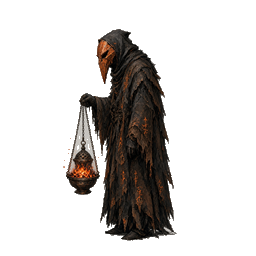
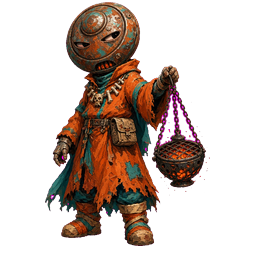
Gravemark: five class looks, fifteen monsters and twelve bosses in the new style
Installed from the post-apocalypse delivery via tools/fit-figure.py (keys the
magenta, fits each portrait onto its canvas, mirrors so heroes face right and
monsters face left in the file). Renderer flips a painting only when its
manifest facing differs from the actor's, draws class looks untinted, and the
roster portrait crops the class look. Installer's filler check now derives
the frame count from the image width like the renderer does.

Claude-Session: https://claude.ai/code/session_01L4YgmXtn1U1rMqPTfw2Rbr

diff --git a/gravemark/src/32-ui-battle.js b/gravemark/src/32-ui-battle.js
@@ -392,7 +392,9 @@ function drawSpriteMode(ctx, p, a, size, scale, now) {
   ctx.rotate((sheet && a.anim.clip === "death" ? 0 : m.lean * 0.6) * Math.PI / 180);
   ctx.scale(m.sx, m.sy);
   var x = -size / 2, y = -size * 0.96;
-  if (a.kind === "hero") {
+  if (a.kind === "hero" && key.indexOf("actor/look-") !== 0) {
+    /* the shared hero painting is tinted to the class; a class's own look is
+       already the class and is drawn as painted */
     GM.drawTinted(ctx, key, a.hue, frame, x, y, size, size, { label: false, strength: 0.26 });
   } else {
     GM.drawSprite(ctx, key, frame, x, y, size, size, { label: true });
@@ -415,9 +417,12 @@ function drawSpriteMode(ctx, p, a, size, scale, now) {
 
 function drawActor(ctx, p, a, fx, fy, size, now) {
   var scale = size / 256;
-  var left = a.facing === "left";
+  /* Paintings are stored facing the way their manifest entry says (heroes
+     right, monsters left); the rig is authored facing right. Flip only when
+     what is drawn faces the other way from where the actor looks. */
   var rigMode = GM.RIG_DEBUG || GM.partsReady(a.partsId, a.anim.rig.id);
-
+  var artFacing = rigMode ? "right" : ((GM.ART_BY_KEY[a.spriteKey] || {}).facing || "right");
+  var left = a.facing !== artFacing;
   ctx.save();
   ctx.translate(fx, fy);
   if (left) ctx.scale(-1, 1);

diff --git a/gravemark/src/33-ui-roster.js b/gravemark/src/33-ui-roster.js
@@ -24,9 +24,12 @@ function portraitInto(canvas, hero) {
   var look = GM.heroLookKey(hero);
   var key = (look && GM.artReady(look)) ? look
           : GM.artReady("actor/hero-idle") ? "actor/hero-idle" : null;
-  if (key) {
-    /* Crop the head and shoulders out of the full figure, tinted to the class
-       so a roster of identical sprites is still readable at a glance. */
+  if (key === look) {
+    /* The class's own painting: head and shoulders, untinted. */
+    GM.drawSprite(ctx, key, 0, -w * 0.4, -h * 0.02, w * 1.8, h * 1.8, { label: false });
+  } else if (key) {
+    /* Crop the head and shoulders out of the shared figure, tinted to the
+       class so a roster of identical sprites is still readable at a glance. */
     GM.drawTinted(ctx, key, cls.hue, 0, -w * 0.32, -h * 0.12, w * 1.64, h * 1.64,
                   { label: false, strength: 0.26 });
   } else {

diff --git a/gravemark/src/00-util.js b/gravemark/src/00-util.js
@@ -5,7 +5,7 @@
 
 var GM = window.GM || (window.GM = {});
 
-GM.BUILD = "b009-whole";
+GM.BUILD = "b010-looks";
 GM.TITLE = "Gravemark";
 
 /* ---------- RNG ---------------------------------------------------------

diff --git a/gravemark/tools/fit-figure.py b/gravemark/tools/fit-figure.py
@@ -1,0 +1,74 @@
+#!/usr/bin/env python3
+"""Fit delivered character paintings onto their manifest canvases.
+
+A generator paints a figure at whatever aspect it likes (784x1168 portraits,
+this delivery). The game wants a fixed canvas per key: 256x256 for actors and
+monsters, 384x320 for bosses, feet resting near the bottom. This keys out the
+magenta, crops to the figure, scales it to fit the canvas with its feet at
+`--feet` of the height, and mirrors any file listed in --mirror so that every
+hero faces RIGHT and every monster faces LEFT in the file itself.
+
+    python3 tools/fit-figure.py <delivery-dir> --out /tmp/stage --mirror chill,vigilant
+    python3 tools/art-install.py /tmp/stage
+
+Files are mapped by name: look-<class>.png -> actor/look-<class>,
+<mon>-idle.png -> mon/<mon>-idle, b_<boss>-idle.png -> boss/b_<boss>-idle.
+"""
+import os, sys, json, argparse, subprocess, importlib.util
+from PIL import Image
+
+HERE = os.path.dirname(os.path.abspath(__file__))
+spec = importlib.util.spec_from_file_location("ai", os.path.join(HERE, "art-install.py"))
+ai = importlib.util.module_from_spec(spec); spec.loader.exec_module(ai)
+
+def manifest():
+    out = subprocess.run(["node", os.path.join(HERE, "art-manifest.js")], capture_output=True, text=True, check=True)
+    return {s["key"]: s for s in json.loads(out.stdout)}
+
+def key_for(name):
+    base = os.path.splitext(os.path.basename(name))[0]
+    if base.startswith("look-"): return "actor/" + base
+    if base.startswith("b_"): return "boss/" + base
+    return "mon/" + base
+
+def fit(img, w, h, feet):
+    img = img.convert("RGBA")
+    img, _ = ai.strip_matte(img)
+    bb = img.getchannel("A").getbbox()
+    if bb: img = img.crop(bb)
+    avail_h = h * feet - 2
+    avail_w = w - 4
+    s = min(avail_w / img.size[0], avail_h / img.size[1])
+    nw, nh = max(1, round(img.size[0] * s)), max(1, round(img.size[1] * s))
+    img = img.resize((nw, nh), Image.LANCZOS)
+    out = Image.new("RGBA", (w, h), (0, 0, 0, 0))
+    out.paste(img, ((w - nw) // 2, round(h * feet) - nh), img)
+    return out
+
+def main():
+    ap = argparse.ArgumentParser()
+    ap.add_argument("src")
+    ap.add_argument("--out", required=True)
+    ap.add_argument("--feet", type=float, default=0.96)
+    ap.add_argument("--mirror", default="", help="comma list of basenames (without -idle/.png) to flip horizontally")
+    a = ap.parse_args()
+    specs = manifest()
+    mirror = set(x.strip() for x in a.mirror.split(",") if x.strip())
+    n = 0
+    for f in sorted(os.listdir(a.src)):
+        if not f.lower().endswith(".png"): continue
+        key = key_for(f)
+        sp = specs.get(key)
+        if not sp: print("  no manifest key for", f, "->", key); continue
+        img = Image.open(os.path.join(a.src, f))
+        base = os.path.splitext(f)[0].replace("-idle", "")
+        if base in mirror: img = img.transpose(Image.FLIP_LEFT_RIGHT)
+        out = fit(img, sp["w"], sp["h"], a.feet)
+        dst = os.path.join(a.out, key + ".png")
+        os.makedirs(os.path.dirname(dst), exist_ok=True)
+        out.save(dst, optimize=True); n += 1
+        print(f"  {key:28s} {sp['w']}x{sp['h']}" + ("  mirrored" if base in mirror else ""))
+    print(f"fitted {n}; install with: python3 tools/art-install.py {a.out}")
+
+if __name__ == "__main__":
+    main()

diff --git a/gravemark/tools/art-install.py b/gravemark/tools/art-install.py
@@ -29,7 +29,9 @@ def manifest(path=None):
 
 def is_painted(img, spec):
     w, h = img.size
-    frames = spec.get("frames") or 1
+    # The renderer derives the frame count from the image's own width, so a
+    # single still delivered for a sheet key is one frame, not a sixth of one.
+    frames = max(1, round(w / max(1, spec.get("w") or w)))
     fw = max(1, w // frames)
     frame = img.crop((0, 0, fw, h)).convert("RGBA")
     bg = Image.new("RGBA", frame.size, (128, 128, 128, 255))

diff --git a/gravemark/README.md b/gravemark/README.md
@@ -177,11 +177,21 @@ out of date. With items gone there are no item icons, rune glyphs, rarity
 frames or paper-doll layers in it; the five **class looks**
 (`actor/look-<class>`, one standing figure each) took their place.
 
-**Current coverage: 151 of 493 painted.** `ART-REMAINING.md` lists the rest.
-All twelve bosses, all fifteen monsters, the hero, the five weapons and
-seventeen of eighteen backdrops are in. Outstanding: the class looks, the rig
-parts, and the UI chrome (which the renderer does not consume yet — the UI is
-CSS).
+**Current coverage: 158 of 493 painted.** `ART-REMAINING.md` lists the rest.
+All twelve bosses, all fifteen monsters, the five class looks, the hero, the
+five weapons and seventeen of eighteen backdrops are in. Outstanding: the rig
+parts, the post-apocalypse backdrops (the current ones are the old night
+graveyards), and the UI chrome (which the renderer does not consume yet — the
+UI is CSS).
+
+The art direction changed with the class looks: a sun-bleached, colourful
+post-apocalypse rather than a graveyard at night. `GROK-CHARACTERS.md` and
+`GROK-BACKDROPS.md` are the prompts. Deliveries arrive as tall portraits on
+magenta; `tools/fit-figure.py <dir> --out STAGE --mirror a,b` keys them, crops
+to the figure, fits each onto its manifest canvas with the feet at 96%, and
+mirrors the named ones so every hero file faces right and every monster file
+faces left. The renderer flips a painting only when its manifest facing
+differs from the way the actor looks, and draws a class look untinted.
 
 Until per-class hero art exists the battle panels and roster portraits tint
 each hero toward their class colour (cached per key+hue, not composited per
